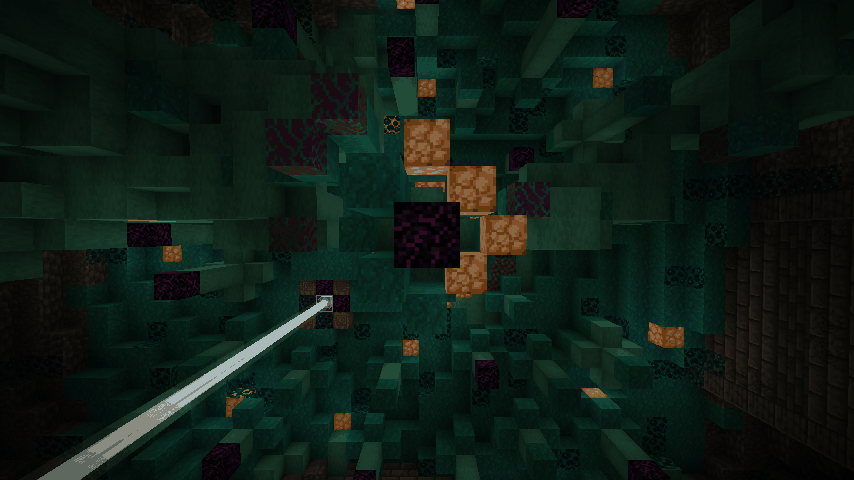
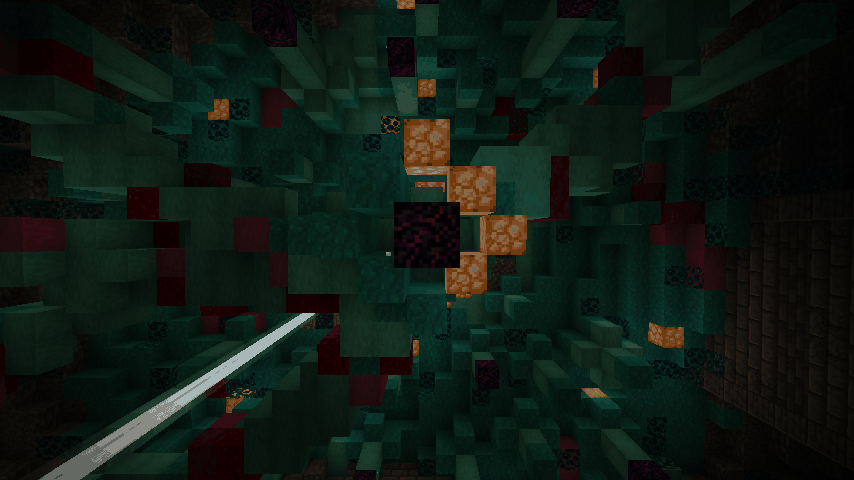
Ancient Fabricators, look round 2: crimson streaks through the warped, thinner sculk, chains as beaded links; previews and addendum (C1)
Claude-Session: https://claude.ai/code/session_01BJp3bVUq6285x623YGx2kD

diff --git a/mods/bubbas_reworked_mobs/src/main/java/io/github/bubba8587/bubbas_reworked_mobs/factory/FactoryDesign.java b/mods/bubbas_reworked_mobs/src/main/java/io/github/bubba8587/bubbas_reworked_mobs/factory/FactoryDesign.java
@@ -306,7 +306,7 @@ public final class FactoryDesign {
 	private BlockState surface(int x, int y, int z) {
 		boolean floorFace = isOpen(x, y + 1, z);
 		double n = noise(x * 0.18, y * 0.18, z * 0.18, 0);
-		if (floorFace && n > 0.1 || !floorFace && !isOpen(x, y - 1, z) && n > 0.5) {
+		if (floorFace && n > 0.35 || !floorFace && !isOpen(x, y - 1, z) && n > 0.62) {
 			return Blocks.SCULK.defaultBlockState();
 		}
 		return rock(x, y, z);
@@ -338,6 +338,9 @@ public final class FactoryDesign {
 		double n = noise(x * 0.22, y * 0.3, z * 0.22, 1);
 		if (h < 0.035) {
 			return Blocks.SHROOMLIGHT.defaultBlockState();
+		}
+		if (crimsonStreak(x, y, z)) {
+			return crimson(x, y, z);
 		}
 		if (n < -0.55) {
 			return h < 0.12 ? Blocks.BONE_BLOCK.defaultBlockState() : Blocks.BASALT.defaultBlockState();
@@ -441,6 +444,8 @@ public final class FactoryDesign {
 						s = Blocks.SHROOMLIGHT.defaultBlockState(); // a gland in the core
 					} else if (outer && t >= 0.3 && hash(x, y, z, 34) < 0.08) {
 						s = Blocks.SHROOMLIGHT.defaultBlockState(); // a gland on the skin
+					} else if (outer && crimsonStreak(x, y, z)) {
+						s = crimson(x, y, z);
 					} else {
 						s = Blocks.STRIPPED_WARPED_HYPHAE.defaultBlockState();
 					}
@@ -506,20 +511,20 @@ public final class FactoryDesign {
 		return Math.hypot(x - BEAM_X, z - BEAM_Z) < r;
 	}
 
-	// ---- The chains: alien spurs climbing the walls and curling in to the drop point ----
+	// ---- The chains: alien chains climbing the walls and curling in to the dripper ----
 
 	/**
-	 * Owner (2026-11-16): the warped growth forms alien "chains"/spurs that curve up around the cavern's walls, then
-	 * curl in and bend toward the central drop spot. Each is a tapering tube along a cubic curve: from low on the wall,
-	 * up it, along the ceiling (twisting as it goes, so they spiral in), and down to a point hanging over the deck's
-	 * middle. Warped wart flesh with bone vertebrae every few blocks and bone spurs with dripstone points sticking
-	 * out and down. None start on the face wall, the Warden's tower or the entrance.
+	 * Owner (2026-11-16): the warped growth forms alien "chains" that curve up around the cavern's walls, then curl in
+	 * and bend toward the central dripper. Each is a thin strand (about one block thick) of warped wart along a cubic
+	 * curve, threaded with knots of stripped warped hyphae every ~3 blocks so it reads as links: from low on the wall,
+	 * up it, then sagging free under the roof, twisting as it goes (so they spiral in), to the dripper's stalk. Every
+	 * few knots is crimson (the owner's crimson streaks). None start on the face wall, the tower or the tunnel mouth.
 	 */
 	private void tendrils() {
-		int count = 9 + this.random.nextInt(3);
+		int count = 11 + this.random.nextInt(3);
 		double start = this.random.nextDouble() * Math.PI * 2.0;
 		for (int i = 0; i < count; i++) {
-			double a = start + i * Math.PI * 2.0 / count + (this.random.nextDouble() - 0.5) * 0.35;
+			double a = start + i * Math.PI * 2.0 / count + (this.random.nextDouble() - 0.5) * 0.3;
 			double ca = Math.cos(a);
 			double sa = Math.sin(a);
 			// Skip the face wall (behind, -z), the tower (+x) and the tunnel mouth (+z, middle).
@@ -527,17 +532,17 @@ public final class FactoryDesign {
 				continue;
 			}
 			double e = RADIUS + wobble(a);
-			double turn = (this.random.nextBoolean() ? 1 : -1) * (0.5 + this.random.nextDouble() * 0.4);
+			double turn = (this.random.nextBoolean() ? 1 : -1) * (0.6 + this.random.nextDouble() * 0.5);
+			double endY = 10.0 + this.random.nextDouble() * 6.0;
 			double[][] ctrl = {
-					{ e - 2.5, -3.0 + this.random.nextDouble() * 3.0, 0.0 },
-					{ e - 4.0, 11.0, turn * 0.15 },
-					{ 10.0, 19.0, turn * 0.6 },
-					{ 2.5 + this.random.nextDouble() * 1.5, 11.0 + this.random.nextDouble() * 3.0, turn },
+					{ e - 1.5, -5.0 + this.random.nextDouble() * 2.0, 0.0 },
+					{ e - 2.0, 14.0, turn * 0.2 },
+					{ 9.0, 18.0, turn * 0.65 },
+					{ 1.6, endY, turn },
 			};
-			double base = 0.95 + this.random.nextDouble() * 0.4;
-			double lastX = Double.NaN;
 			int step = 0;
-			for (double t = 0.0; t <= 1.0; t += 0.012, step++) {
+			int knots = 0;
+			for (double t = 0.0; t <= 1.0; t += 0.008, step++) {
 				double u = 1.0 - t;
 				double[] b = { u * u * u, 3 * u * u * t, 3 * u * t * t, t * t * t };
 				double r = 0;
@@ -551,55 +556,57 @@ public final class FactoryDesign {
 				double ang = a + tw;
 				double cx = Math.cos(ang) * r;
 				double cz = Math.sin(ang) * r + t * t * DROP_Z;
-				// Never poke through the ceiling growth's top or below the deck's middle.
+				// Hang free under the roof: at least 1.5 below the ceiling, sagging between wall and dripper.
 				int ceilHere = ceil((int) Math.round(cx), (int) Math.round(cz));
 				if (ceilHere != Integer.MIN_VALUE) {
-					y = Math.min(y, ceilHere - 0.5);
+					y = Math.min(y, ceilHere - 1.5 - 2.5 * Math.sin(Math.PI * Math.max(0.0, (t - 0.35) / 0.65)));
 				}
-				double radius = base * (1.0 - 0.75 * t) + 0.25;
-				boolean rib = step % 7 == 0;
-				int reach = (int) Math.ceil(radius + (rib ? 0.8 : 0));
+				boolean knot = step % 7 == 0 && t > 0.03;
+				if (knot) {
+					knots++;
+				}
+				double radius = knot ? 1.2 : 0.62;
+				int reach = (int) Math.ceil(radius);
 				for (int x = (int) Math.floor(cx) - reach; x <= (int) Math.ceil(cx) + reach; x++) {
 					for (int yy = (int) Math.floor(y) - reach; yy <= (int) Math.ceil(y) + reach; yy++) {
 						for (int z = (int) Math.floor(cz) - reach; z <= (int) Math.ceil(cz) + reach; z++) {
 							double d = Math.sqrt((x - cx) * (x - cx) + (yy - y) * (yy - y) + (z - cz) * (z - cz));
-							if (nearBeam(x, z, 1.6) || inTower(x, z) || yy <= 1 && Math.abs(x) <= PX + 1 && z >= PZ_BACK && z <= PZ_FRONT) {
+							if (d > radius || nearBeam(x, z, 1.6) || inTower(x, z)
+									|| yy <= 1 && Math.abs(x) <= PX + 1 && z >= PZ_BACK && z <= PZ_FRONT) {
 								continue;
 							}
-							if (d <= radius) {
-								BlockState flesh = hash(x, yy, z, 21) < 0.03 ? Blocks.NETHER_WART_BLOCK.defaultBlockState()
-										: hash(x, yy, z, 22) < 0.06 ? Blocks.SHROOMLIGHT.defaultBlockState()
-										: Blocks.WARPED_WART_BLOCK.defaultBlockState();
-								solid(x, yy, z, flesh);
-							} else if (rib && d <= radius + 0.8) {
-								solid(x, yy, z, Blocks.STRIPPED_WARPED_HYPHAE.defaultBlockState());
+							BlockState s;
+							if (knot) {
+								s = knots % 4 == 0 ? crimson(x, yy, z) : Blocks.STRIPPED_WARPED_HYPHAE.defaultBlockState();
+							} else if (crimsonStreak(x, yy, z)) {
+								s = crimson(x, yy, z);
+							} else {
+								s = hash(x, yy, z, 22) < 0.04 ? Blocks.SHROOMLIGHT.defaultBlockState() : Blocks.WARPED_WART_BLOCK.defaultBlockState();
 							}
+							solid(x, yy, z, s);
 						}
 					}
 				}
-				// Spurs: a bone thorn sticking out and down every so often, tipped with dripstone.
-				if (step % 14 == 7 && t > 0.25 && t < 0.9) {
-					double out = this.random.nextDouble() * Math.PI * 2.0;
-					int sx = (int) Math.round(cx + Math.cos(out) * (radius + 0.8));
-					int sz = (int) Math.round(cz + Math.sin(out) * (radius + 0.8));
-					int sy = (int) Math.round(y - radius * 0.5);
-					int len = 1 + this.random.nextInt(3);
-					int k = 0;
-					for (; k < len && isOpen(sx, sy - k, sz) && !nearBeam(sx, sz, 1.6); k++) {
-						solid(sx, sy - k, sz, k == len - 1 ? Blocks.WARPED_WART_BLOCK.defaultBlockState() : Blocks.WARPED_STEM.defaultBlockState());
-					}
-				}
-				lastX = cx;
-			}
-			// The end hangs over the drop point: a bone tip and a long dripstone point.
-			double endAng = a + ctrl[3][2];
-			int ex = (int) Math.round(Math.cos(endAng) * ctrl[3][0]);
-			int ez = (int) Math.round(Math.sin(endAng) * ctrl[3][0] + DROP_Z);
-			int ey = (int) Math.round(Math.min(ctrl[3][1], ceil(ex, ez) - 0.5));
-			if (!nearBeam(ex, ez, 1.6)) {
-				solid(ex, ey - 1, ez, Blocks.WARPED_HYPHAE.defaultBlockState());
 			}
 		}
+	}
+
+	/**
+	 * The owner's crimson streaks (2026-11-16): thin wandering sheets through the warped growth (where two seeded
+	 * waves cross zero together), about one block in twenty, so crimson shows as veins and streaks, never patches.
+	 */
+	private boolean crimsonStreak(int x, int y, int z) {
+		// Two wavy sheets; where both are near zero they cross in a line, so crimson runs as streaks.
+		double v = Math.sin(x * 0.21 + y * 0.55 + 0.6 * Math.sin(z * 0.19 + this.phase[10]) + this.phase[8]);
+		double w = Math.sin(z * 0.23 - y * 0.43 + 0.6 * Math.sin(x * 0.17 + this.phase[11]) + this.phase[9]);
+		return Math.abs(v) < 0.3 && Math.abs(w) < 0.45;
+	}
+
+	/** A crimson streak block: nether wart, stripped crimson hyphae (the red flesh), crimson hyphae. */
+	private BlockState crimson(int x, int y, int z) {
+		double h = hash(x, y, z, 41);
+		return h < 0.5 ? Blocks.NETHER_WART_BLOCK.defaultBlockState()
+				: h < 0.85 ? Blocks.STRIPPED_CRIMSON_HYPHAE.defaultBlockState() : Blocks.CRIMSON_HYPHAE.defaultBlockState();
 	}
 
 	private static boolean inTower(int x, int z) {
@@ -980,13 +987,11 @@ public final class FactoryDesign {
 	 * stairs, on the window ledge, in the tunnel and over the cavern floor.
 	 */
 	private void sculkSeeds() {
-		int[][] deck = { { -6, -8 }, { 5, -7 }, { -7, 5 }, { 7, 0 }, { -3, 8 } };
+		int[][] deck = { { -6, -8 }, { 6, 6 } };
 		for (int[] p : deck) {
 			this.sculkSeeds.add(new BlockPos(p[0], 0, p[1]));
 		}
-		this.sculkSeeds.add(new BlockPos(11, 0, 8));
-		this.sculkSeeds.add(new BlockPos(12, 6, 0));
-		for (int i = 0; i < 9; i++) {
+		for (int i = 0; i < 4; i++) {
 			double a = this.random.nextDouble() * Math.PI * 2.0;
 			double r = 12.0 + this.random.nextDouble() * 6.0;
 			int x = (int) Math.round(Math.cos(a) * r);
@@ -999,7 +1004,7 @@ public final class FactoryDesign {
 				this.sculkSeeds.add(new BlockPos(x, f + 1, z));
 			}
 		}
-		for (int z : new int[] { 24, 34 }) {
+		for (int z : new int[] { 30 }) {
 			double cx = 3.0 * Math.sin(z * 0.13 + this.phase[7]);
 			double cy = 1.0 + (z - 18) * 0.35;
 			int x = (int) Math.round(cx);

diff --git a/docs/reports/factories-look2-2026-11-16.md b/docs/reports/factories-look2-2026-11-16.md
@@ -1,0 +1,40 @@
+<!-- dte:C1 -->
+# Docs report addendum: Ancient Fabricators, look round 2 (2026-11-16)
+
+Adds to `docs/reports/factories-docs-2026-11-16.md` (merge both into `specs/mob-factory.md`). Still look only, no mechanics.
+
+## Owner's feedback this round
+"That's really close actually." Two changes: crimson streaks through the warped, and less sculk. Also done: the chains now read as chains. A jukebox hopper loop was asked for and then cancelled by the owner, because vanilla's infinite jukebox is coming in current snapshots. Nothing was added for it, and the office jukebox stays as it was (disc 13 in it, playing when placed).
+
+## Changes (as built)
+
+**Crimson streaks:**
+- Crimson runs as thin streaks through the warped roof mass, the dripper's skin and the chains.
+- *How:* streaks sit where two seeded wavy sheets both come near zero. They cross in lines, so crimson shows as veins, never patches.
+- *Blocks:* nether wart block (50 %), stripped crimson hyphae (35 %, the red flesh), crimson hyphae (15 %).
+- Warped stays primary. The function is `FactoryDesign.crimsonStreak`.
+
+**Less sculk:**
+- Vanilla's `sculk_patch_ancient_city` now grows from **7 spots** instead of about 17:
+  - 2 on the deck (back-left corner, front-right)
+  - 4 on the cavern floor
+  - 1 in the tunnel
+- No patch on the stairs or the window ledge any more.
+- The painted sculk on the rock lining is thinner too: floor about 30 % instead of 45 %, walls rare.
+- The deck now reads as ancient-city stone with sculk creeping in from the edges.
+- The pad and the lamps are still kept clear.
+
+**Chains:**
+- 11-13 of them. Each is now a **thin strand** (about one block thick) of warped wart, threaded every ~3 blocks with a **knot** (a ball of stripped warped hyphae about 2.5 blocks across). They read as links on a chain.
+- **Every fourth knot is crimson.**
+- They start low on the cavern wall and climb it. Then they hang **free under the roof**, at least 1.5 below it and sagging up to 2.5 more between wall and dripper. They twist as they go and end at the dripper's stalk.
+- The thorn spurs are gone, since the beaded links read better.
+
+## Screenshots (`docs/previews/factories/`, refreshed)
+The same set as round 1 (the cavern-floor close-up is still left out). Best views of this round's changes:
+- crimson streaks: `fabricator-overview-lit.png`, `fabricator-side-lit.png`
+- chains: `fabricator-chains-lit.png`
+- lighter sculk: `fabricator-platform.png`, `fabricator-sculk-deck.png`
+
+## For the mechanics phase
+- **Office jukebox:** plan on vanilla's infinite jukebox (in current snapshots) instead of a workaround. Until then, the disc plays once when the Fabricator is placed.
